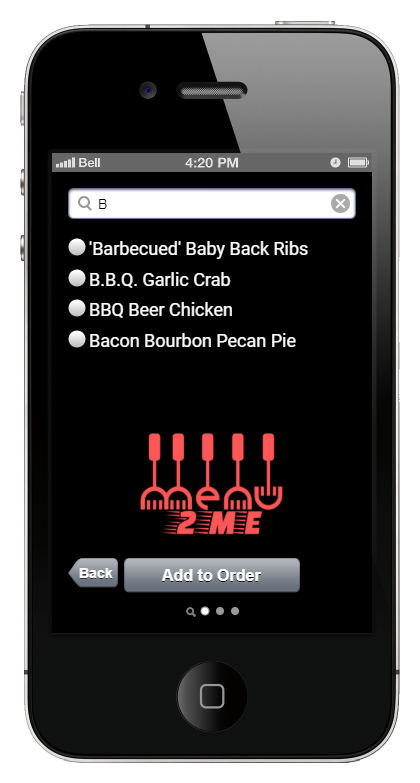
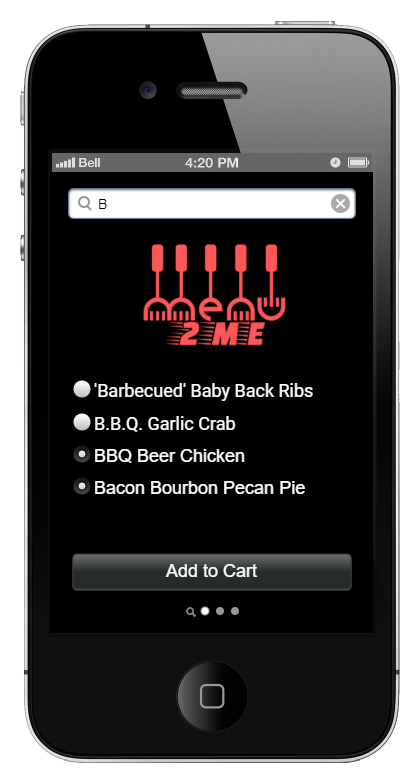
Add files via upload
With Validation Screens

Changed region(s): [[0.1548, 0.3065, 0.8357, 0.7663]]

diff --git a/index.html b/index.html
@@ -1,2 +1,2 @@
 <html xmlns="http://www.w3.org/1999/xhtml" xmlns:p="http://www.evolus.vn/Namespace/Pencil" xmlns:html="http://www.w3.org/1999/xhtml"><head><meta http-equiv="Content-Type" content="text/html; charset=UTF-8" />
-<title>Apple2</title><link rel="stylesheet" href="Resources/style.css" /><script type="application/javascript" src="Resources/script.js"></script></head><body><h1 id="documentTitle">Apple2</h1><p id="documentMetadata">Exported at: Sat Apr 04 2020 11:40:13 GMT+1000 (Australian Eastern Standard Time)</p><div class="Page" id="homescreen_page"><h2>HomeScreen</h2><div class="ImageContainer"><img src="pages\homescreen.png" width="420" height="783" usemap="#map_homescreen" /></div><map name="map_homescreen"><area shape="rect" coords="129,534,294,570" href="#menuscreena_page" title="Go to page 'MenuScreenA'" /></map></div><div class="Page" id="menuscreena_page"><h2>MenuScreenA</h2><div class="ImageContainer"><img src="pages\menuscreena.png" width="420" height="783" usemap="#map_menuscreena" /></div><map name="map_menuscreena"><area shape="rect" coords="68,558,118,588" href="#homescreen_page" title="Go to page 'HomeScreen'" /></map></div><div class="Page" id="menuscreenb_page"><h2>MenuScreenB</h2><div class="ImageContainer"><img src="pages\menuscreenb.png" width="420" height="783" usemap="#map_menuscreenb" /></div><map name="map_menuscreenb"><area shape="rect" coords="68,558,118,588" href="#homescreen_page" title="Go to page 'HomeScreen'" /></map></div><div class="Page" id="orderscreen_page"><h2>OrderScreen</h2><div class="ImageContainer"><img src="pages\orderscreen.png" width="420" height="783" usemap="#map_orderscreen" /></div><map name="map_orderscreen"><area shape="rect" coords="68,558,118,588" href="#homescreen_page" title="Go to page 'HomeScreen'" /></map></div><div class="Page" id="payscreen_page"><h2>PayScreen</h2><div class="ImageContainer"><img src="pages\payscreen.png" width="420" height="783" usemap="#map_payscreen" /></div><map name="map_payscreen"><area shape="rect" coords="68,532,118,562" href="#homescreen_page" title="Go to page 'HomeScreen'" /></map></div></body></html>
+<title>m2m</title><link rel="stylesheet" href="Resources/style.css" /><script type="application/javascript" src="Resources/script.js"></script></head><body><h1 id="documentTitle">m2m</h1><p id="documentMetadata">Exported at: Wed Apr 15 2020 17:20:27 GMT+1000 (Australian Eastern Standard Time)</p><div class="Page" id="splashscreen_page"><h2>SplashScreen</h2><div class="ImageContainer"><img src="pages\splashscreen.png" width="420" height="783" usemap="#map_splashscreen" /></div><p class="Notes"></p><div></div><p></p><map name="map_splashscreen"></map></div><div class="Page" id="loginscreen_page"><h2>LoginScreen</h2><div class="ImageContainer"><img src="pages\loginscreen.png" width="420" height="783" usemap="#map_loginscreen" /></div><map name="map_loginscreen"><area shape="rect" coords="55,456,357,494" href="#menuscreena_page" title="Go to page 'MenuScreenA'" /><area shape="rect" coords="251,591,321,609" href="#validateloginscreen_3_page" title="Go to page 'ValidateLoginScreen (3)'" /></map></div><div class="Page" id="validateloginscreen_1_page"><h2>ValidateLoginScreen (1)</h2><div class="ImageContainer"><img src="pages\validateloginscreen_1.png" width="420" height="783" usemap="#map_validateloginscreen_1" /></div><map name="map_validateloginscreen_1"><area shape="rect" coords="55,456,357,494" href="#menuscreena_page" title="Go to page 'MenuScreenA'" /></map></div><div class="Page" id="validateloginscreen_2_page"><h2>ValidateLoginScreen (2)</h2><div class="ImageContainer"><img src="pages\validateloginscreen_2.png" width="420" height="783" usemap="#map_validateloginscreen_2" /></div><map name="map_validateloginscreen_2"><area shape="rect" coords="55,456,357,494" href="#menuscreena_page" title="Go to page 'MenuScreenA'" /></map></div><div class="Page" id="validateloginscreen_3_page"><h2>ValidateLoginScreen (3)</h2><div class="ImageContainer"><img src="pages\validateloginscreen_3.png" width="420" height="783" usemap="#map_validateloginscreen_3" /></div><map name="map_validateloginscreen_3"><area shape="rect" coords="63,569,365,607" href="#loginscreen_page" title="Go to page 'LoginScreen'" /></map></div><div class="Page" id="menuscreena_page"><h2>MenuScreenA</h2><div class="ImageContainer"><img src="pages\menuscreena.png" width="420" height="783" usemap="#map_menuscreena" /></div><map name="map_menuscreena"><area shape="rect" coords="74,545,352,581" href="#cartscreen__page" title="Go to page 'CartScreen '" /></map></div><div class="Page" id="menuscreenb_page"><h2>MenuScreenB</h2><div class="ImageContainer"><img src="pages\menuscreenb.png" width="420" height="783" usemap="#map_menuscreenb" /></div><map name="map_menuscreenb"><area shape="rect" coords="73,554,351,590" href="#cartscreen__page" title="Go to page 'CartScreen '" /></map></div><div class="Page" id="cartscreen__page"><h2>CartScreen </h2><div class="ImageContainer"><img src="pages\cartscreen_.png" width="420" height="783" usemap="#map_cartscreen_" /></div><map name="map_cartscreen_"><area shape="rect" coords="73,556,351,592" href="#checkoutscreen_page" title="Go to page 'CheckoutScreen'" /></map></div><div class="Page" id="validatecartscreen__page"><h2>ValidateCartScreen </h2><div class="ImageContainer"><img src="pages\validatecartscreen_.png" width="420" height="783" usemap="#map_validatecartscreen_" /></div><map name="map_validatecartscreen_"><area shape="rect" coords="73,556,351,592" href="#checkoutscreen_page" title="Go to page 'CheckoutScreen'" /></map></div><div class="Page" id="checkoutscreen_page"><h2>CheckoutScreen</h2><div class="ImageContainer"><img src="pages\checkoutscreen.png" width="420" height="783" usemap="#map_checkoutscreen" /></div><map name="map_checkoutscreen"></map></div><div class="Page" id="validatecheckoutscreen_page"><h2>ValidateCheckoutScreen</h2><div class="ImageContainer"><img src="pages\validatecheckoutscreen.png" width="420" height="783" usemap="#map_validatecheckoutscreen" /></div><map name="map_validatecheckoutscreen"></map></div><div class="Page" id="ordereditemsscreen_page"><h2>OrderedItemsScreen</h2><div class="ImageContainer"><img src="pages\ordereditemsscreen.png" width="420" height="783" usemap="#map_ordereditemsscreen" /></div><map name="map_ordereditemsscreen"><area shape="rect" coords="73,556,351,592" href="#splashscreen_page" title="Go to page 'SplashScreen'" /></map></div><div class="Page" id="ordereditemsscreen_1_page"><h2>OrderedItemsScreen (1)</h2><div class="ImageContainer"><img src="pages\ordereditemsscreen_1.png" width="420" height="783" usemap="#map_ordereditemsscreen_1" /></div><map name="map_ordereditemsscreen_1"><area shape="rect" coords="73,556,351,592" href="#splashscreen_page" title="Go to page 'SplashScreen'" /></map></div><div class="Page" id="menumanagementscreen_page"><h2>MenuManagementScreen</h2><div class="ImageContainer"><img src="pages\menumanagementscreen.png" width="420" height="783" usemap="#map_menumanagementscreen" /></div><map name="map_menumanagementscreen"><area shape="rect" coords="101,389,344,417" href="#recipescreen_page" title="Go to page 'RecipeScreen'" /><area shape="rect" coords="99,480,340,508" href="#recipescreen_page" title="Go to page 'RecipeScreen'" /><area shape="rect" coords="99,513,340,541" href="#recipescreen_page" title="Go to page 'RecipeScreen'" /></map></div><div class="Page" id="recipescreen_page"><h2>RecipeScreen</h2><div class="ImageContainer"><img src="pages\recipescreen.png" width="420" height="783" usemap="#map_recipescreen" /></div><map name="map_recipescreen"></map></div></body></html>
